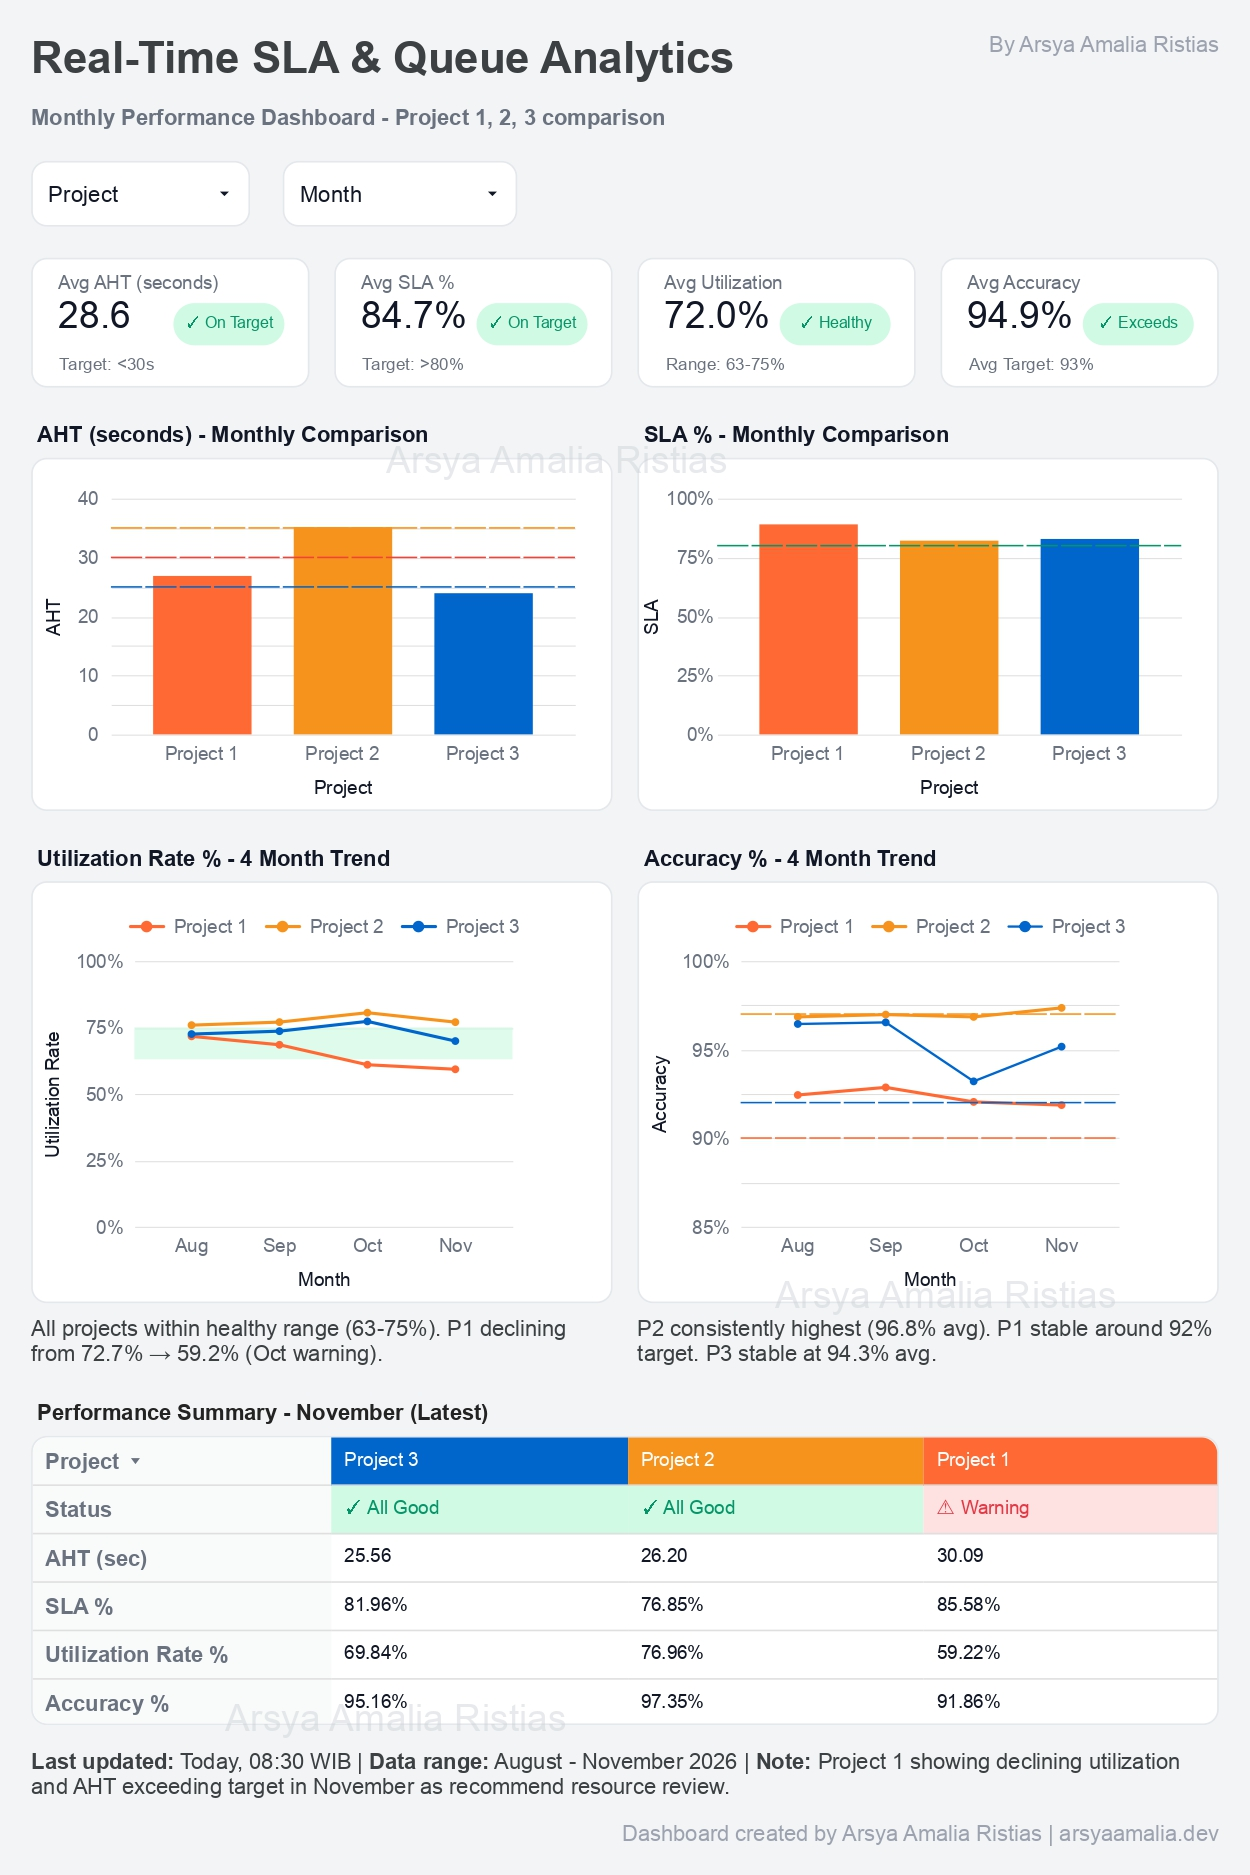
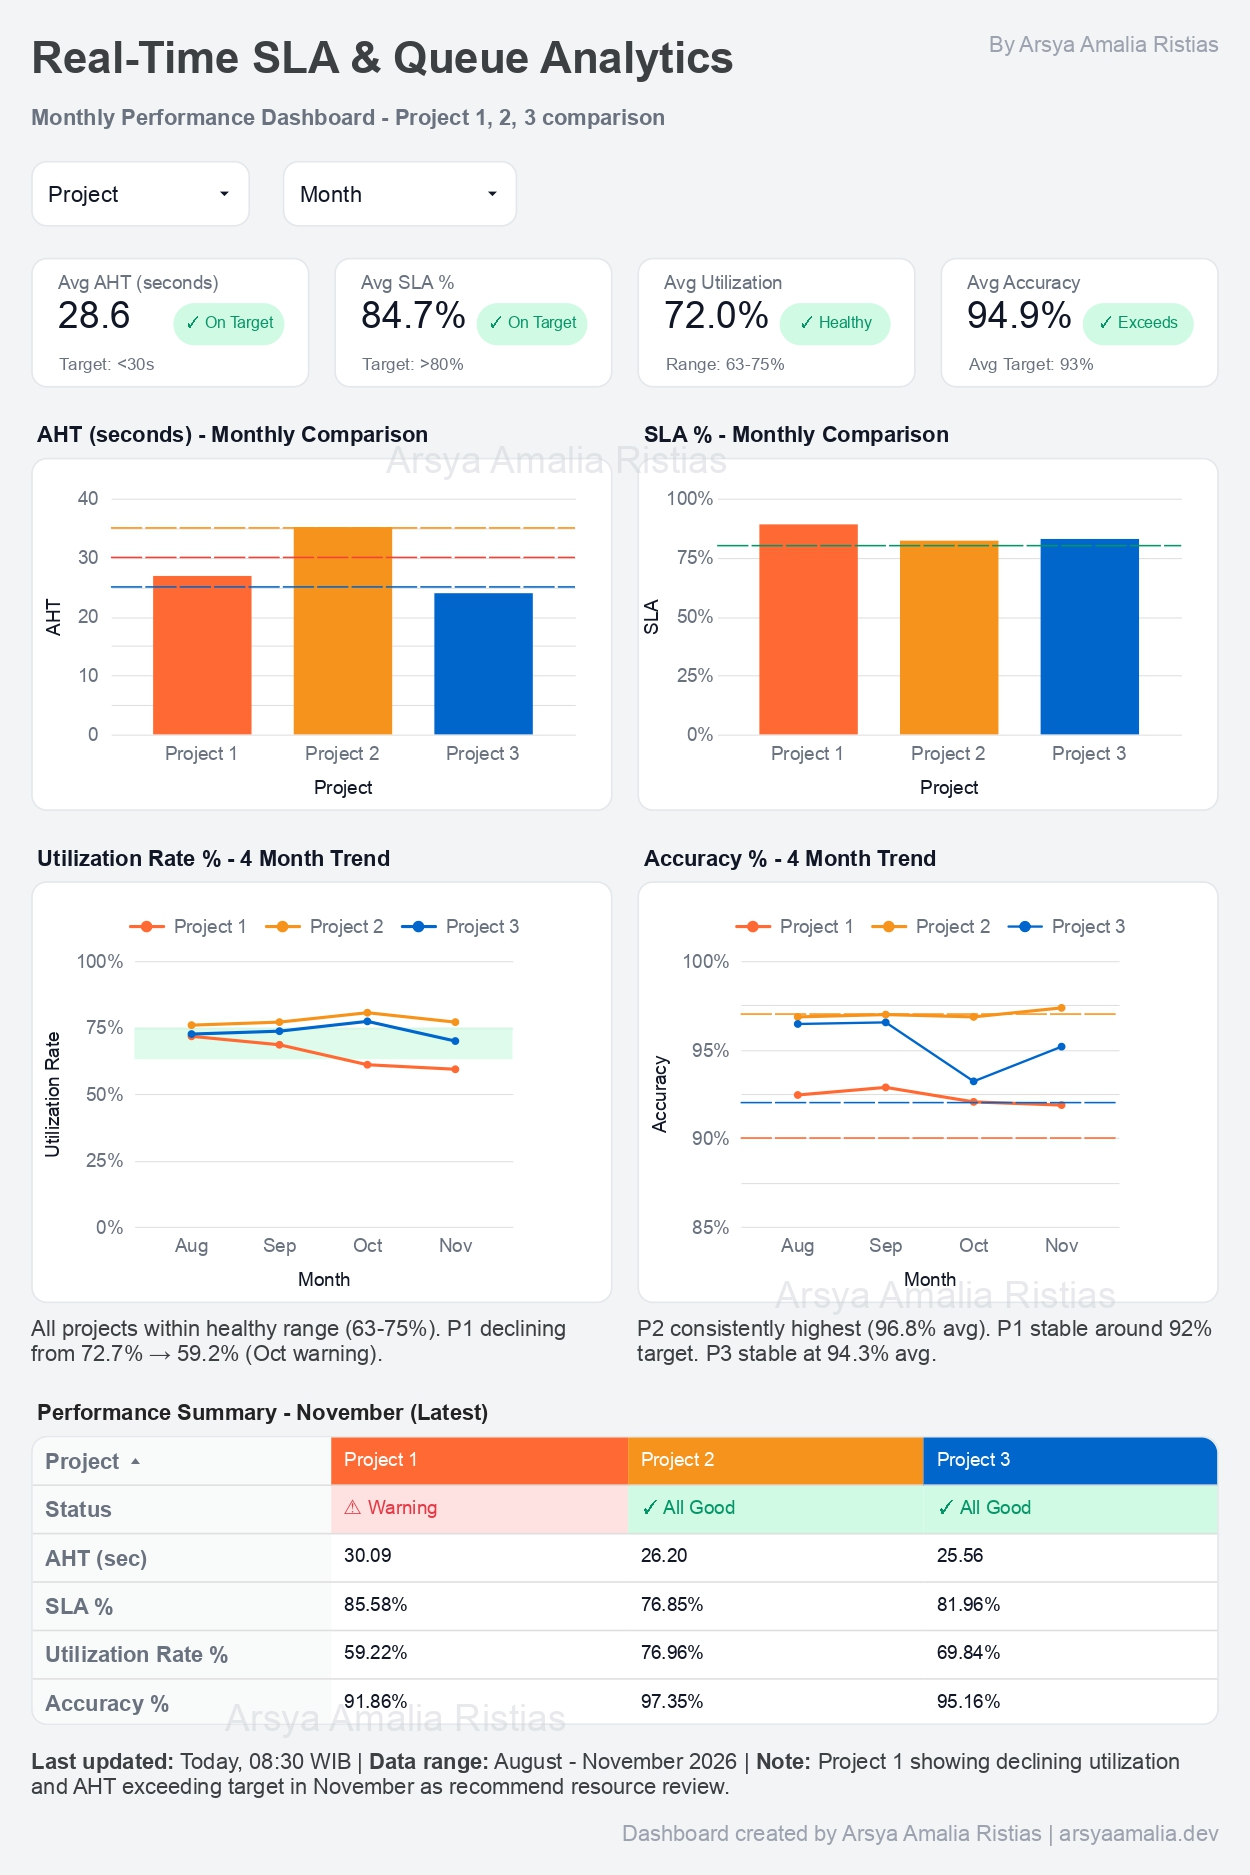
fixing layout

Changed region(s): [[0.2496, 0.7424, 0.5304, 0.8352], [0.7176, 0.7424, 0.9984, 0.8352]]

diff --git a/index.html b/index.html
@@ -349,9 +349,8 @@
 
   /* ── PROJECTS ── */
   .projects-grid {
-    display: grid;
-    grid-template-columns: repeat(2, 1fr);
-    gap: 24px;
+    columns: 2;
+    column-gap: 24px;
   }
 
   .project-card {
@@ -362,28 +361,12 @@
     transition: all 0.3s ease;
     position: relative;
     overflow: hidden;
+    break-inside: avoid;     /* cegah 1 card kepotong di antara 2 kolom */
+    margin-bottom: 24px;     /* pengganti "gap" vertikal, karena columns cuma punya column-gap (horizontal) */
   }
-
-  .project-card::before {
-    content: '';
-    position: absolute;
-    top: 0; left: 0; right: 0;
-    height: 2px;
-    background: linear-gradient(90deg, var(--accent), var(--green));
-    opacity: 0;
-    transition: opacity 0.3s;
-  }
-
-  .project-card:hover {
-    border-color: var(--accent);
-    transform: translateY(-3px);
-    box-shadow: 0 20px 60px rgba(79,142,247,0.08);
-  }
-
-  .project-card:hover::before { opacity: 1; }
 
   .project-card.featured {
-    grid-column: span 2;
+    column-span: all;        /* keluar dari alur kolom, full width di atas */
     display: grid;
     grid-template-columns: 1fr 1fr;
     gap: 40px;
@@ -1059,7 +1042,7 @@
       </div>
       <div class="project-metrics" style="margin-top:20px;">
         <a href="https://github.com/arsyaamalia/workforce-report-automation" target="_blank" class="btn btn-ghost" style="font-size:12px; padding:8px 16px;">GitHub Repo ↗</a>
-        <a href="https://datastudio.google.com/s/iKW2-lP6Wek" target="_blank" class="btn btn-primary" style="font-size:12px; padding:8px 16px;">Looker Data Studio Dashboard ↗</a>
+        <a href="https://datastudio.google.com/s/hdhg7jpMGtk" target="_blank" class="btn btn-primary" style="font-size:12px; padding:8px 16px;">Looker Data Studio Dashboard ↗</a>
       </div>
       <div>
         <!-- Dashboard Embed Section -->
